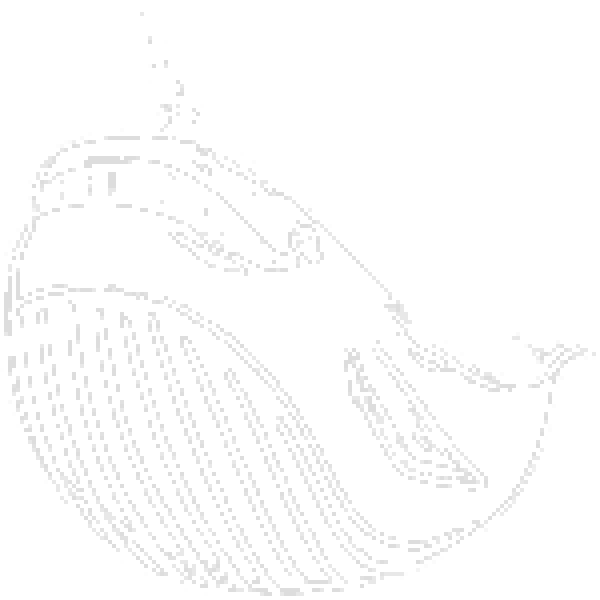
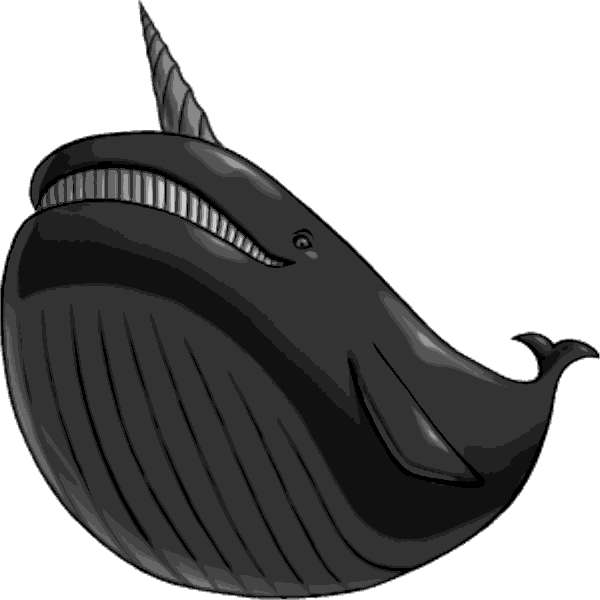
new boss look and treat trial bosses as such

diff --git a/battles/trial/basilisk.js b/battles/trial/basilisk.js
@@ -2,6 +2,7 @@
 //hack INITIALIZATION
 // ===================
 new CenteredImage("assets/battles/trial/basilisk.png", 'background');
+AUDIO.music.interface.boss();
 
 // ===================
 //hack PLAYER CAPABILITIES

diff --git a/battles/_003/_statue.js b/battles/_003/_statue.js
@@ -2,6 +2,7 @@
 new CenteredImage("assets/battles/trial/statue.png", 'background');
 
 PLAYER_ACTIONS.useless(ABILITY.Pray);
+AUDIO.music.interface.boss();
 
 var battle = "_003/_statue";
 
